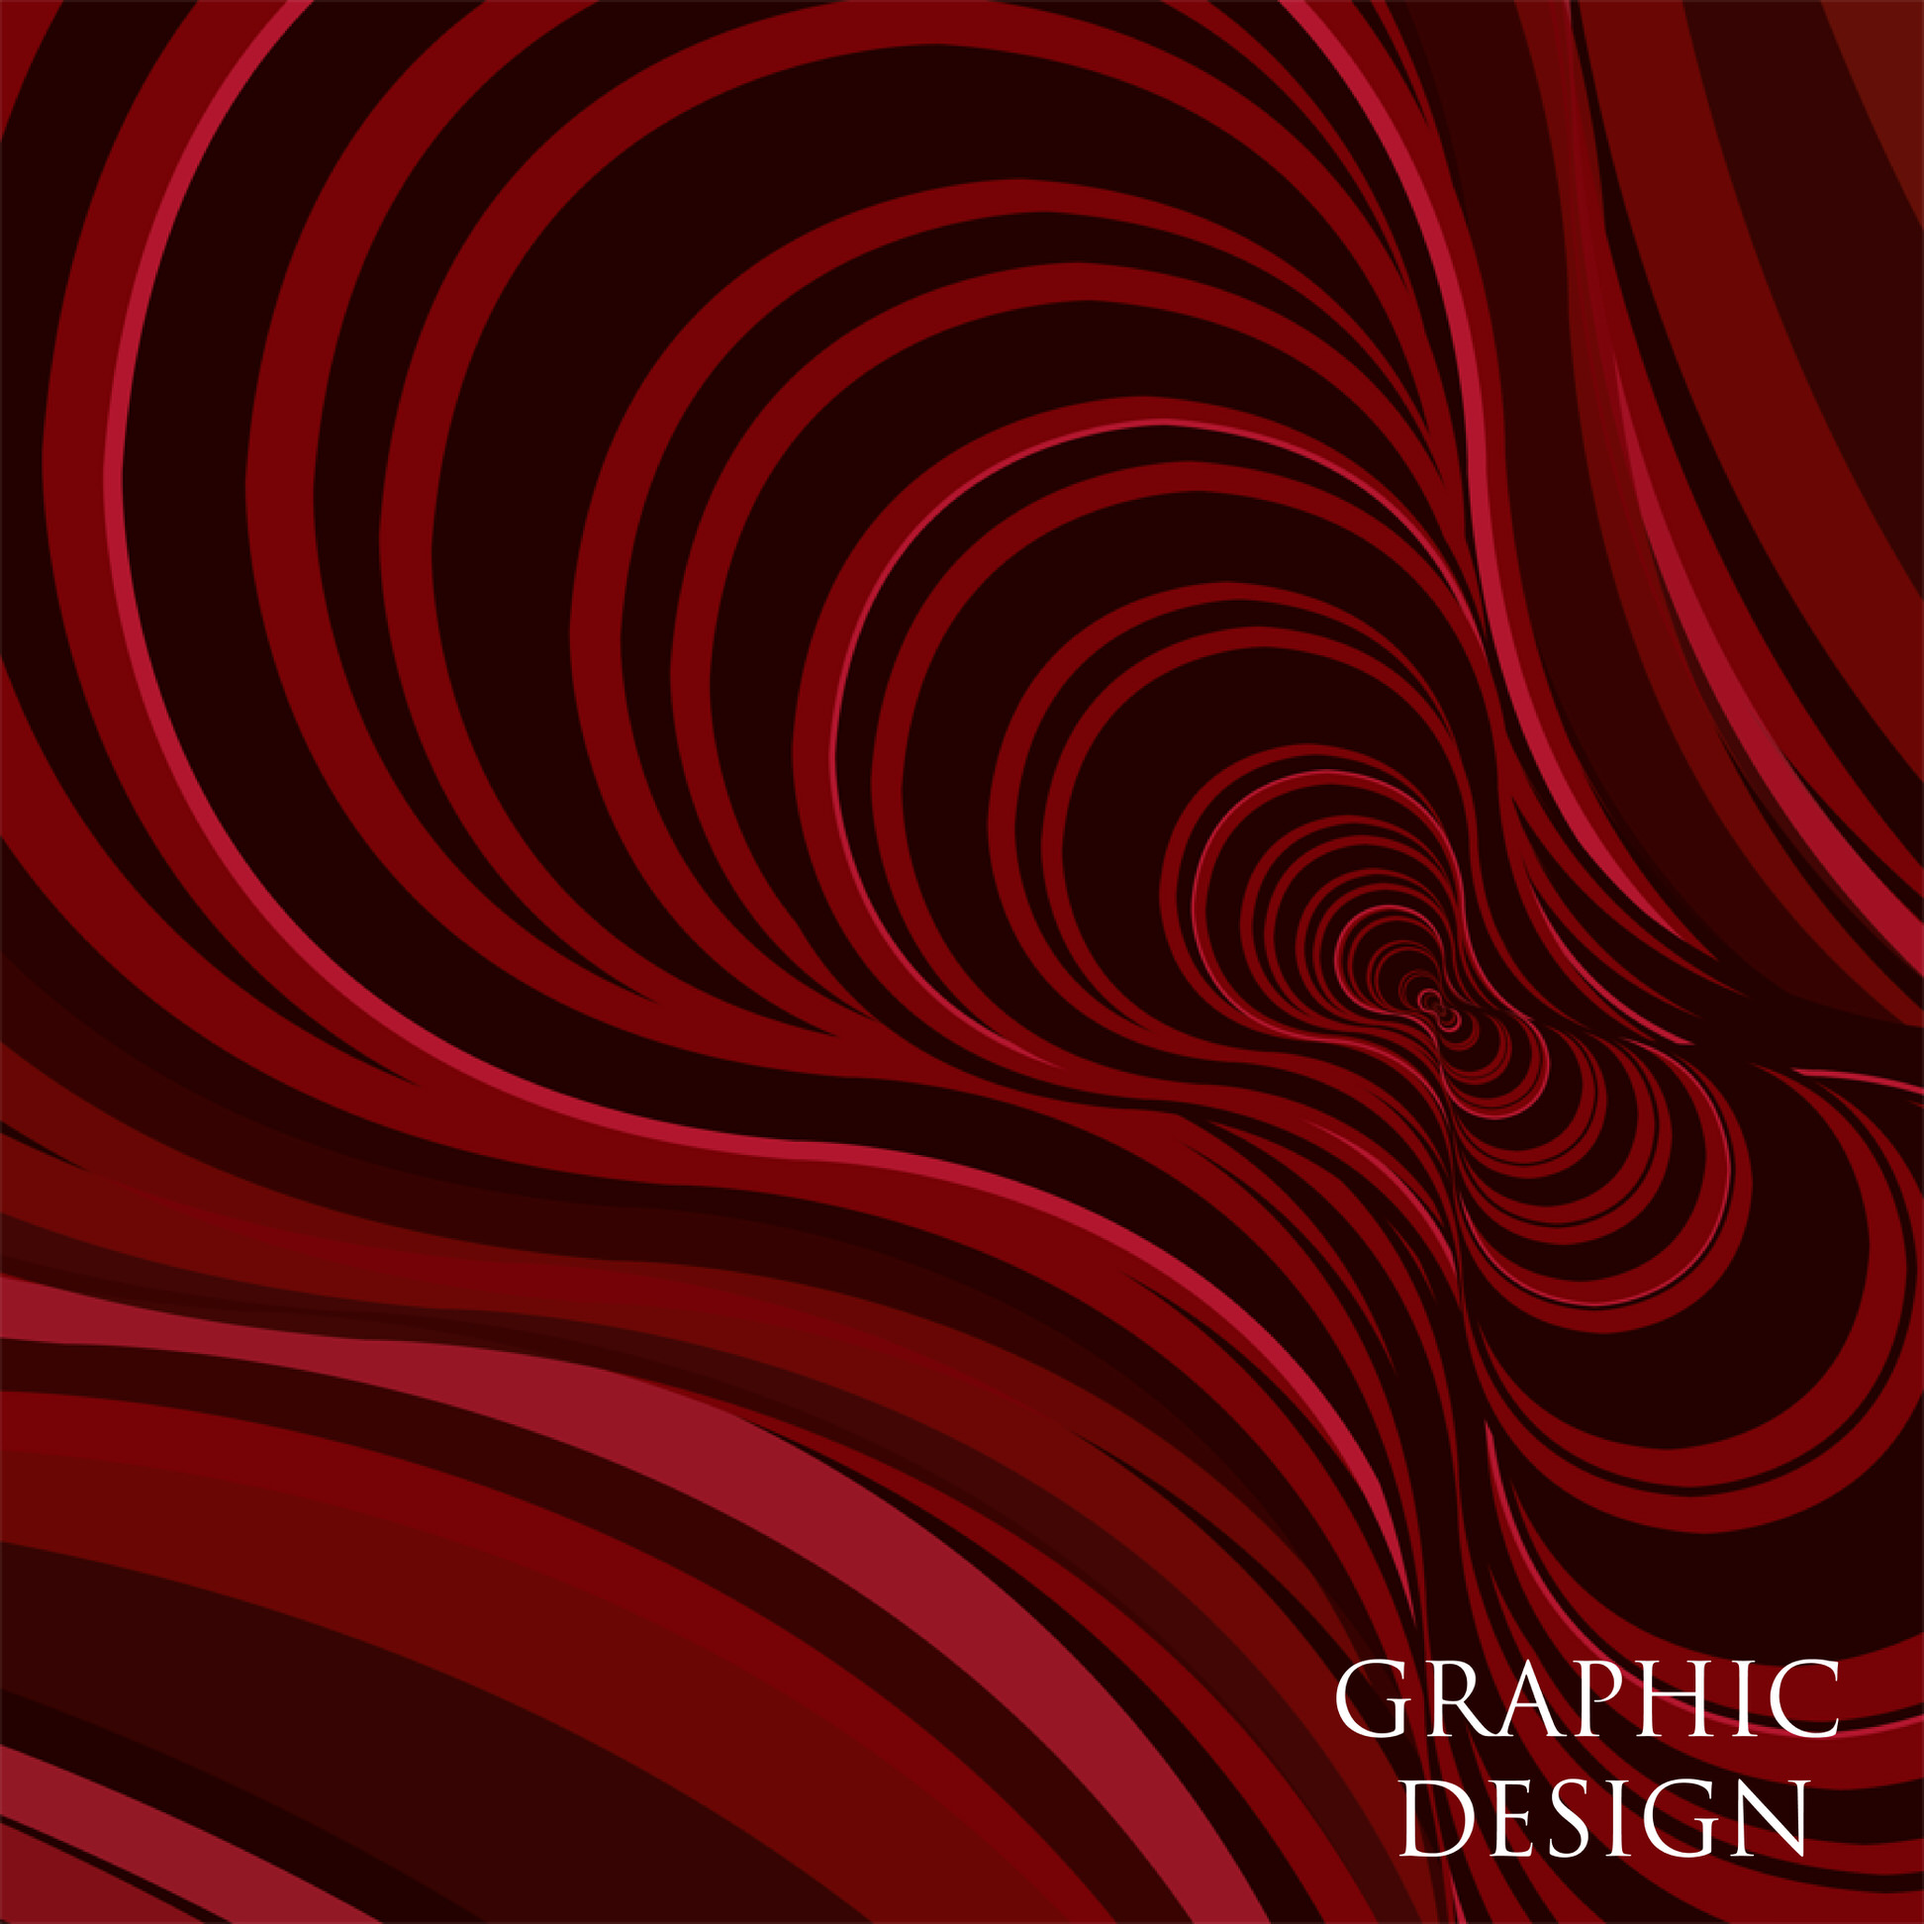
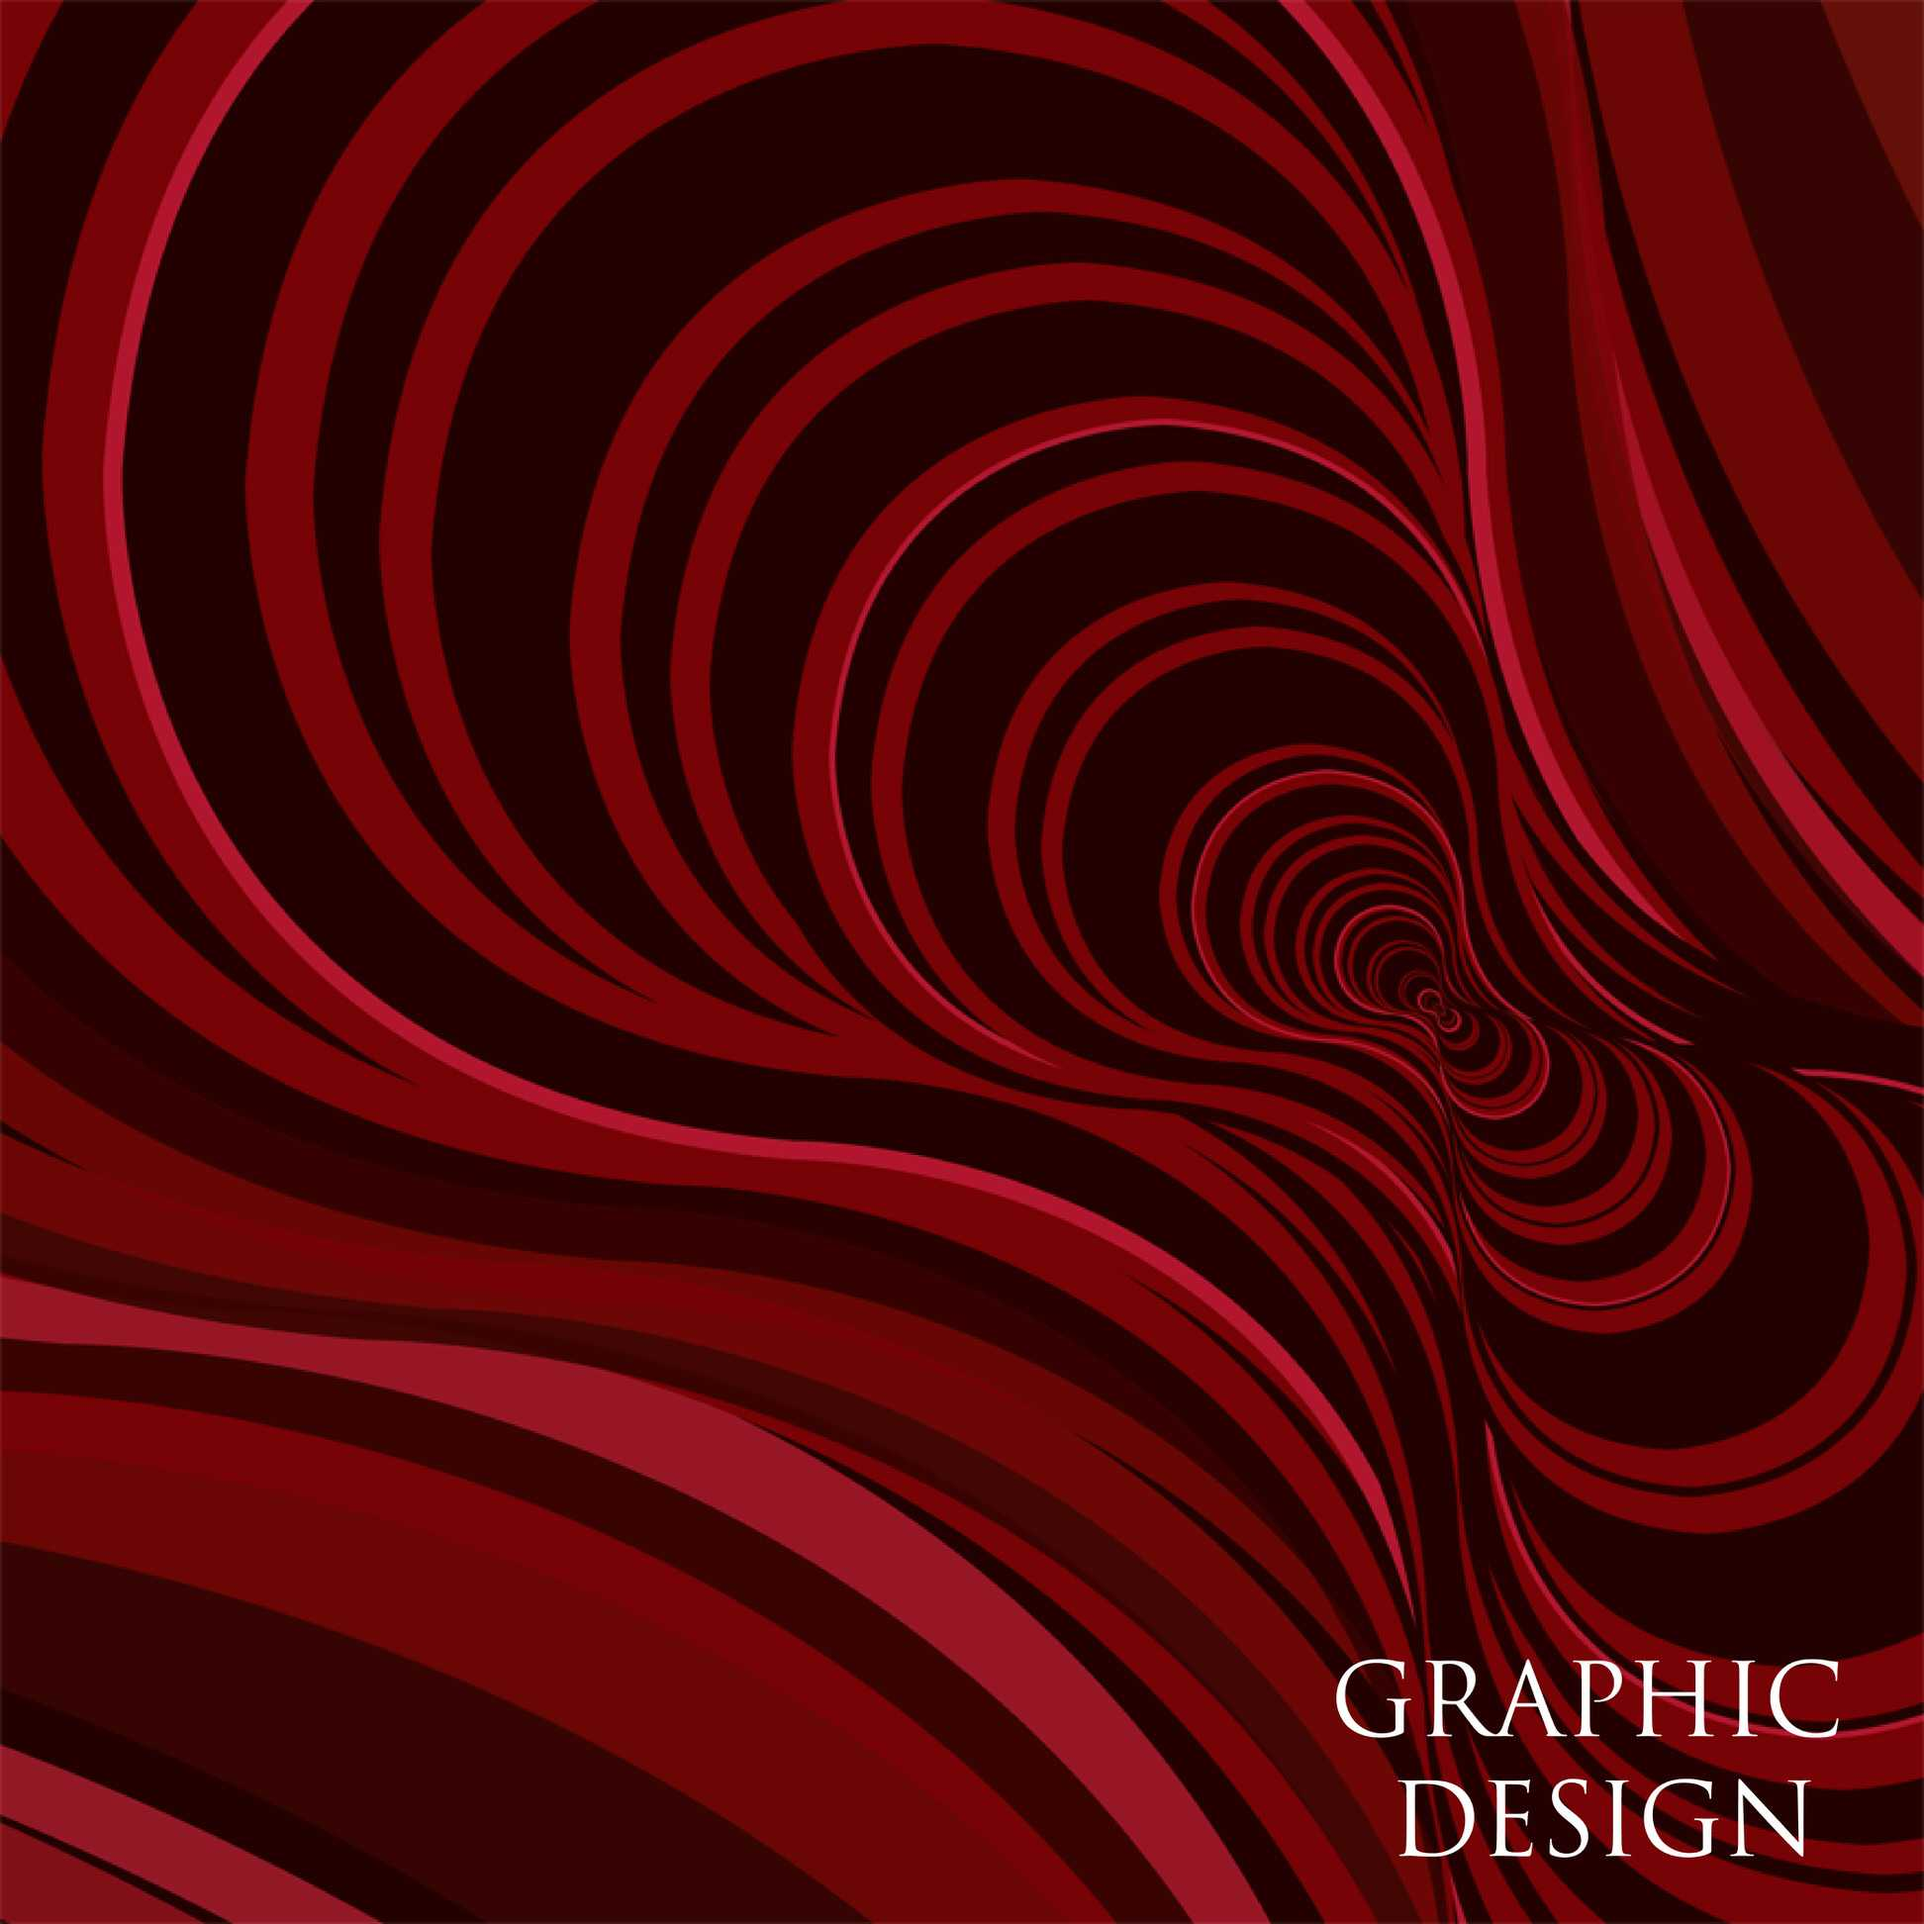
resize image for better performance

Changed region(s): [[0.7407, 0.5247, 0.7716, 0.5864]]

diff --git a/book.html b/book.html
@@ -38,47 +38,47 @@
     <div class="row" id="captions-demo">
       <div class="col-md-4 col-sm-6 col-xs-12 snow-gallery">
         <div class="imgbox-2">
-          <a href="img/design/book/happyzebra-01.jpg" data-caption="Happy Zebra Kindergarten" class="thumbnail"><img src="img/design/book/book-sm/happyzebra-01.jpg" width="100%"></a>
+          <a href="img/design/book/happyzebra-01.jpg" data-caption="Happy Zebra Kindergarten" class="thumbnail"><img src="img/design/book/book-ss/happyzebra-01.jpg" width="100%"></a>
         </div>
       </div>
       <div class="col-md-4 col-sm-6 col-xs-12 snow-gallery">
         <div class="imgbox-2">
-          <a href="img/design/book/happyzebra-02.jpg" data-caption="Happy Zebra Kindergarten" class="thumbnail"><img src="img/design/book/book-sm/happyzebra-02.jpg" width="100%"></a>
+          <a href="img/design/book/happyzebra-02.jpg" data-caption="Happy Zebra Kindergarten" class="thumbnail"><img src="img/design/book/book-ss/happyzebra-02.jpg" width="100%"></a>
         </div>
       </div>
       <div class="col-md-4 col-sm-6 col-xs-12 snow-gallery">
         <div class="imgbox-2">
-          <a href="img/design/book/happyzebra-03.jpg" data-caption="Happy Zebra Kindergarten" class="thumbnail"><img src="img/design/book/book-sm/happyzebra-03.jpg" width="100%"></a>
+          <a href="img/design/book/happyzebra-03.jpg" data-caption="Happy Zebra Kindergarten" class="thumbnail"><img src="img/design/book/book-ss/happyzebra-03.jpg" width="100%"></a>
         </div>
       </div>
       <div class="col-md-4 col-sm-6 col-xs-12 snow-gallery">
         <div class="imgbox-2">
-          <a href="img/design/book/happyzebra-04.jpg" data-caption="Happy Zebra Kindergarten" class="thumbnail"><img src="img/design/book/book-sm/happyzebra-04.jpg" width="100%"></a>
+          <a href="img/design/book/happyzebra-04.jpg" data-caption="Happy Zebra Kindergarten" class="thumbnail"><img src="img/design/book/book-ss/happyzebra-04.jpg" width="100%"></a>
         </div>
       </div>
       <div class="col-md-4 col-sm-6 col-xs-12 snow-gallery">
         <div class="imgbox-2">
-          <a href="img/design/book/happyzebra-05.jpg" data-caption="Happy Zebra Kindergarten" class="thumbnail"><img src="img/design/book/book-sm/happyzebra-05.jpg" width="100%"></a>
+          <a href="img/design/book/happyzebra-05.jpg" data-caption="Happy Zebra Kindergarten" class="thumbnail"><img src="img/design/book/book-ss/happyzebra-05.jpg" width="100%"></a>
         </div>
       </div>
       <div class="col-md-4 col-sm-6 col-xs-12 snow-gallery">
         <div class="imgbox-2">
-          <a href="img/design/book/happyzebra-06.jpg" data-caption="Happy Zebra Kindergarten" class="thumbnail"><img src="img/design/book/book-sm/happyzebra-06.jpg" width="100%"></a>
+          <a href="img/design/book/happyzebra-06.jpg" data-caption="Happy Zebra Kindergarten" class="thumbnail"><img src="img/design/book/book-ss/happyzebra-06.jpg" width="100%"></a>
         </div>
       </div>
       <div class="col-md-4 col-sm-6 col-xs-12 snow-gallery">
         <div class="imgbox-2">
-          <a href="img/design/book/happyzebra-07.jpg" data-caption="Happy Zebra Kindergarten" class="thumbnail"><img src="img/design/book/book-sm/happyzebra-07.jpg" width="100%"></a>
+          <a href="img/design/book/happyzebra-07.jpg" data-caption="Happy Zebra Kindergarten" class="thumbnail"><img src="img/design/book/book-ss/happyzebra-07.jpg" width="100%"></a>
         </div>
       </div>
       <div class="col-md-4 col-sm-6 col-xs-12 snow-gallery">
         <div class="imgbox-2">
-          <a href="img/design/book/happyzebra-08.jpg" data-caption="Happy Zebra Kindergarten" class="thumbnail"><img src="img/design/book/book-sm/happyzebra-08.jpg" width="100%"></a>
+          <a href="img/design/book/happyzebra-08.jpg" data-caption="Happy Zebra Kindergarten" class="thumbnail"><img src="img/design/book/book-ss/happyzebra-08.jpg" width="100%"></a>
         </div>
       </div>
       <div class="col-md-4 col-sm-6 col-xs-12 snow-gallery">
         <div class="imgbox-2">
-          <a href="img/design/book/happyzebra-09.jpg" data-caption="Happy Zebra Kindergarten" class="thumbnail"><img src="img/design/book/book-sm/happyzebra-09.jpg" width="100%"></a>
+          <a href="img/design/book/happyzebra-09.jpg" data-caption="Happy Zebra Kindergarten" class="thumbnail"><img src="img/design/book/book-ss/happyzebra-09.jpg" width="100%"></a>
         </div>
       </div>
 

diff --git a/css/style.css b/css/style.css
@@ -281,9 +281,9 @@ ul{
     color: #fff;
 }
 #container-graphicdesign{
-  margin-top: 15em;
-  margin-left: 5em;
-  margin-right: 5em;
+  margin-top: 10em;
+  margin-left: 20em;
+  margin-right: 20em;
 }
 @media only screen and (max-width: 767px) {
     body {
@@ -320,7 +320,7 @@ ul{
 		pointer-events: none;
 	}
   .row-index{
-    
+    padding-top: 3em;
   }
 	.page-header h1{
 		font-size: 28px;
